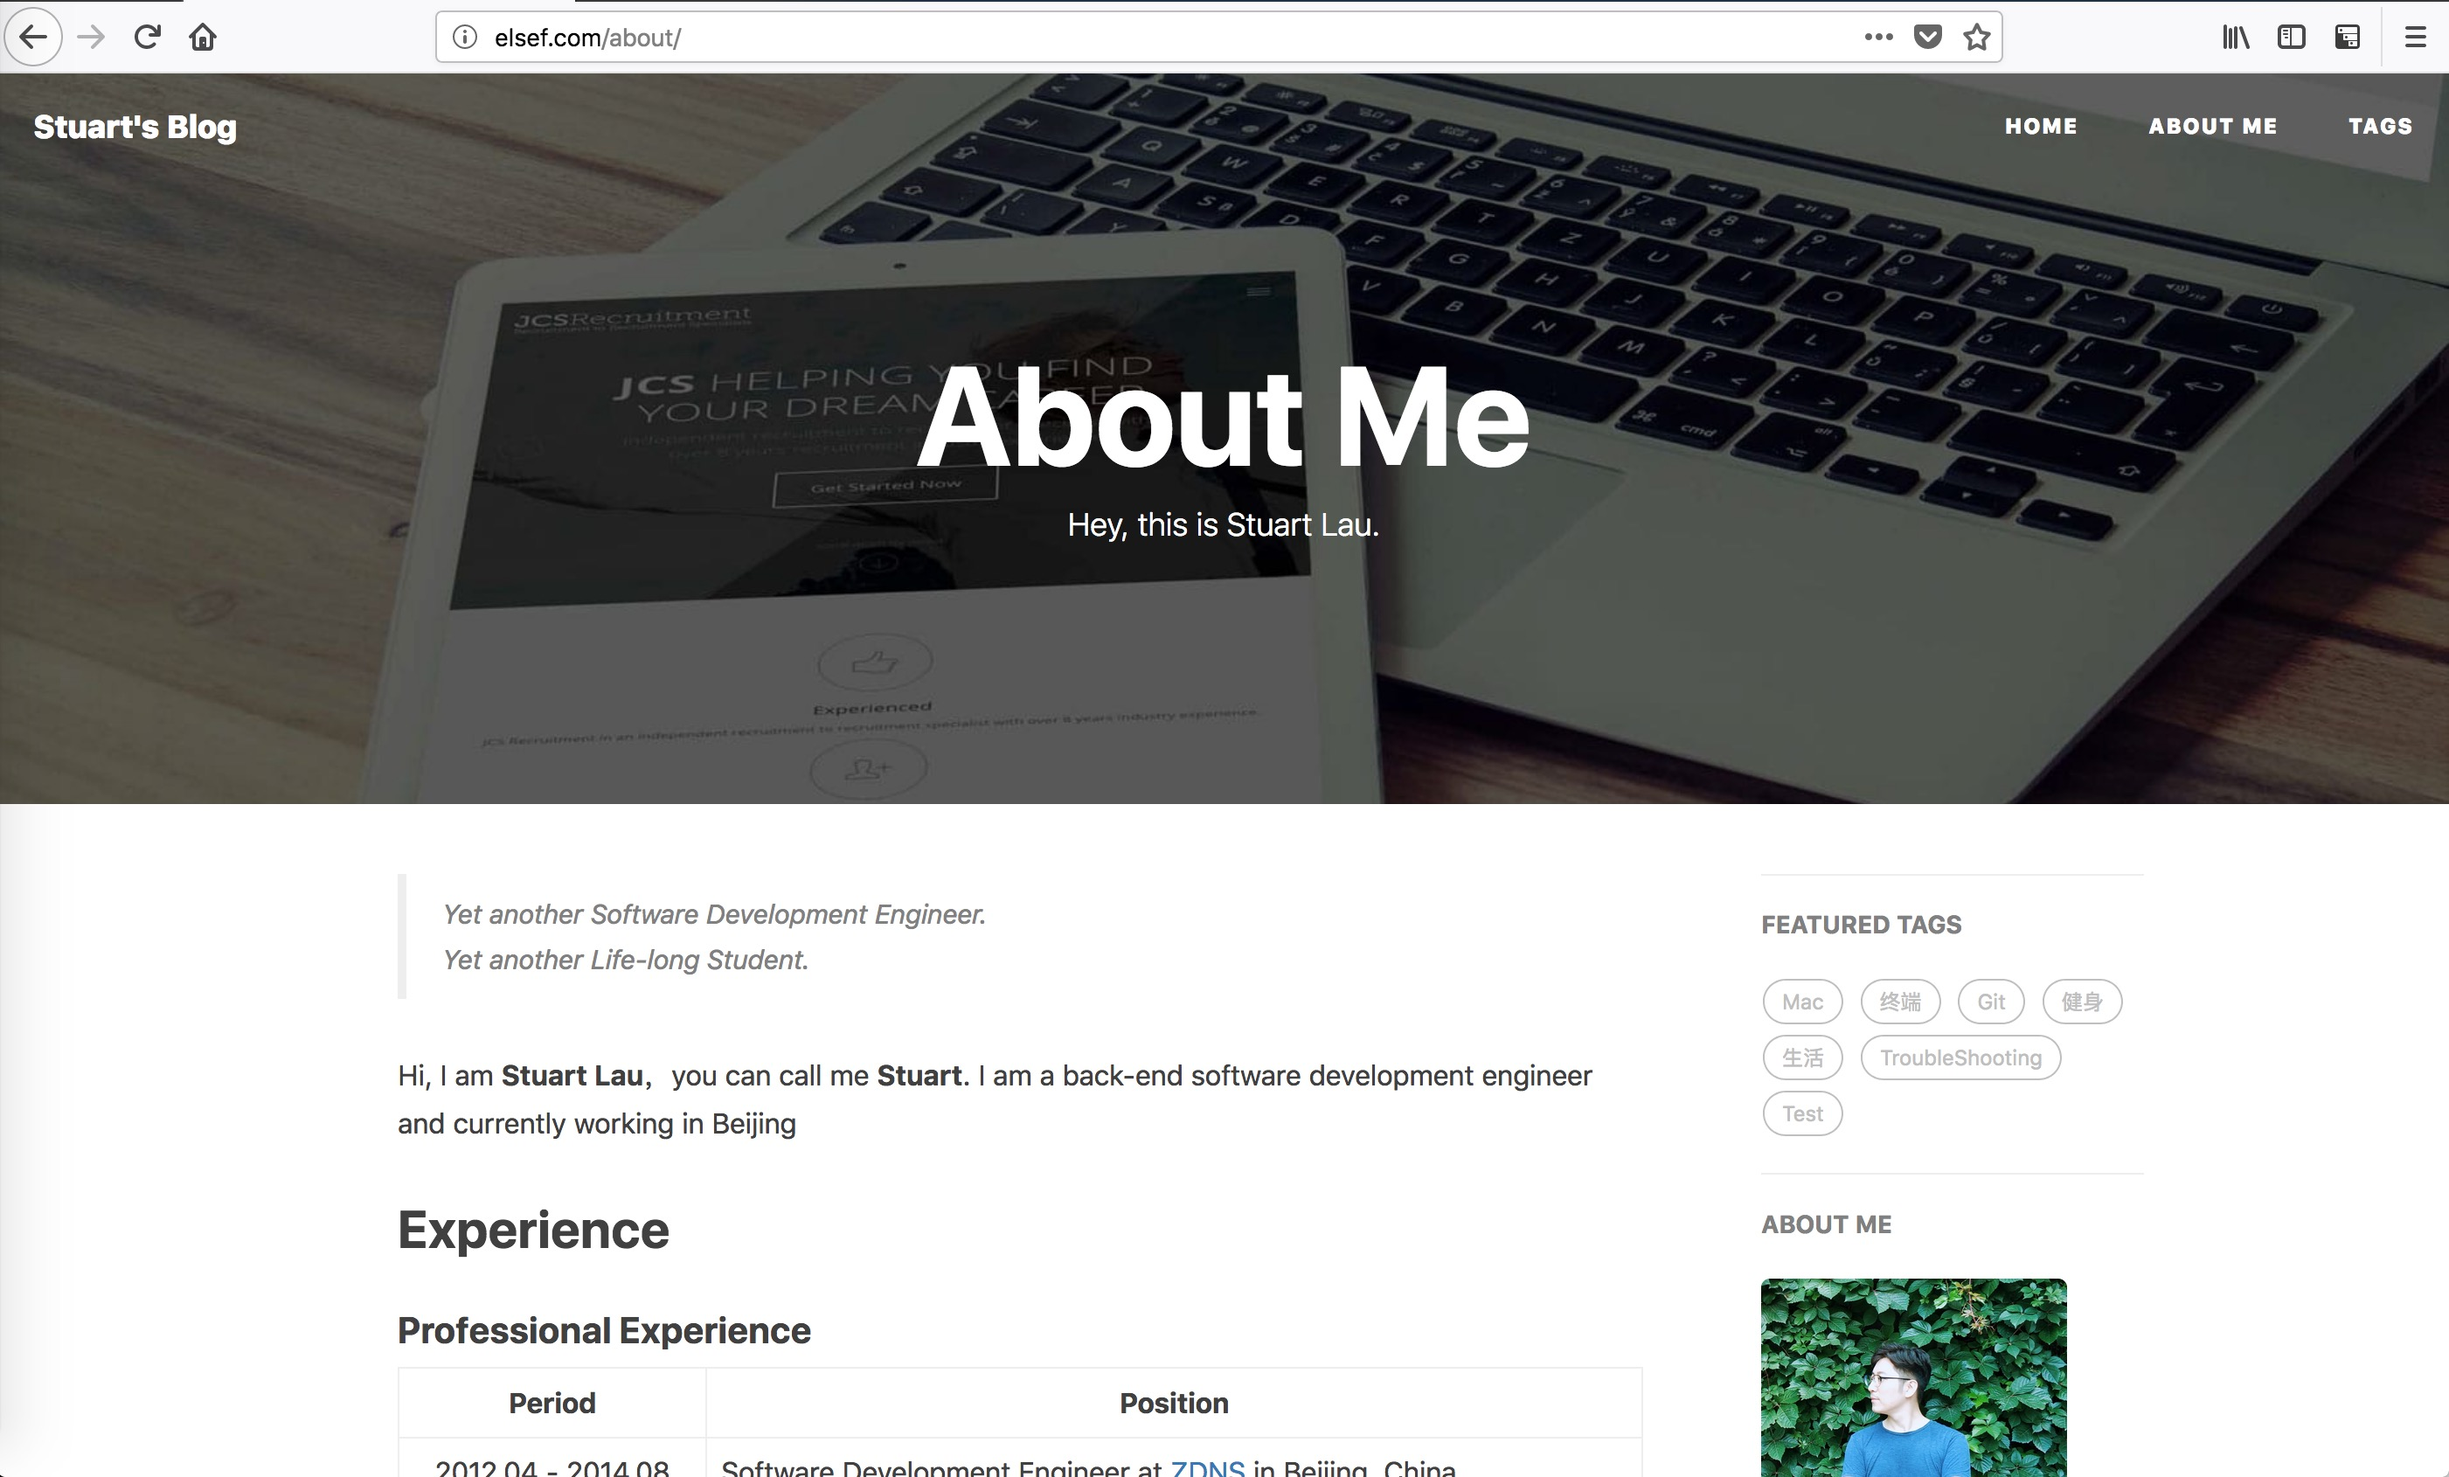
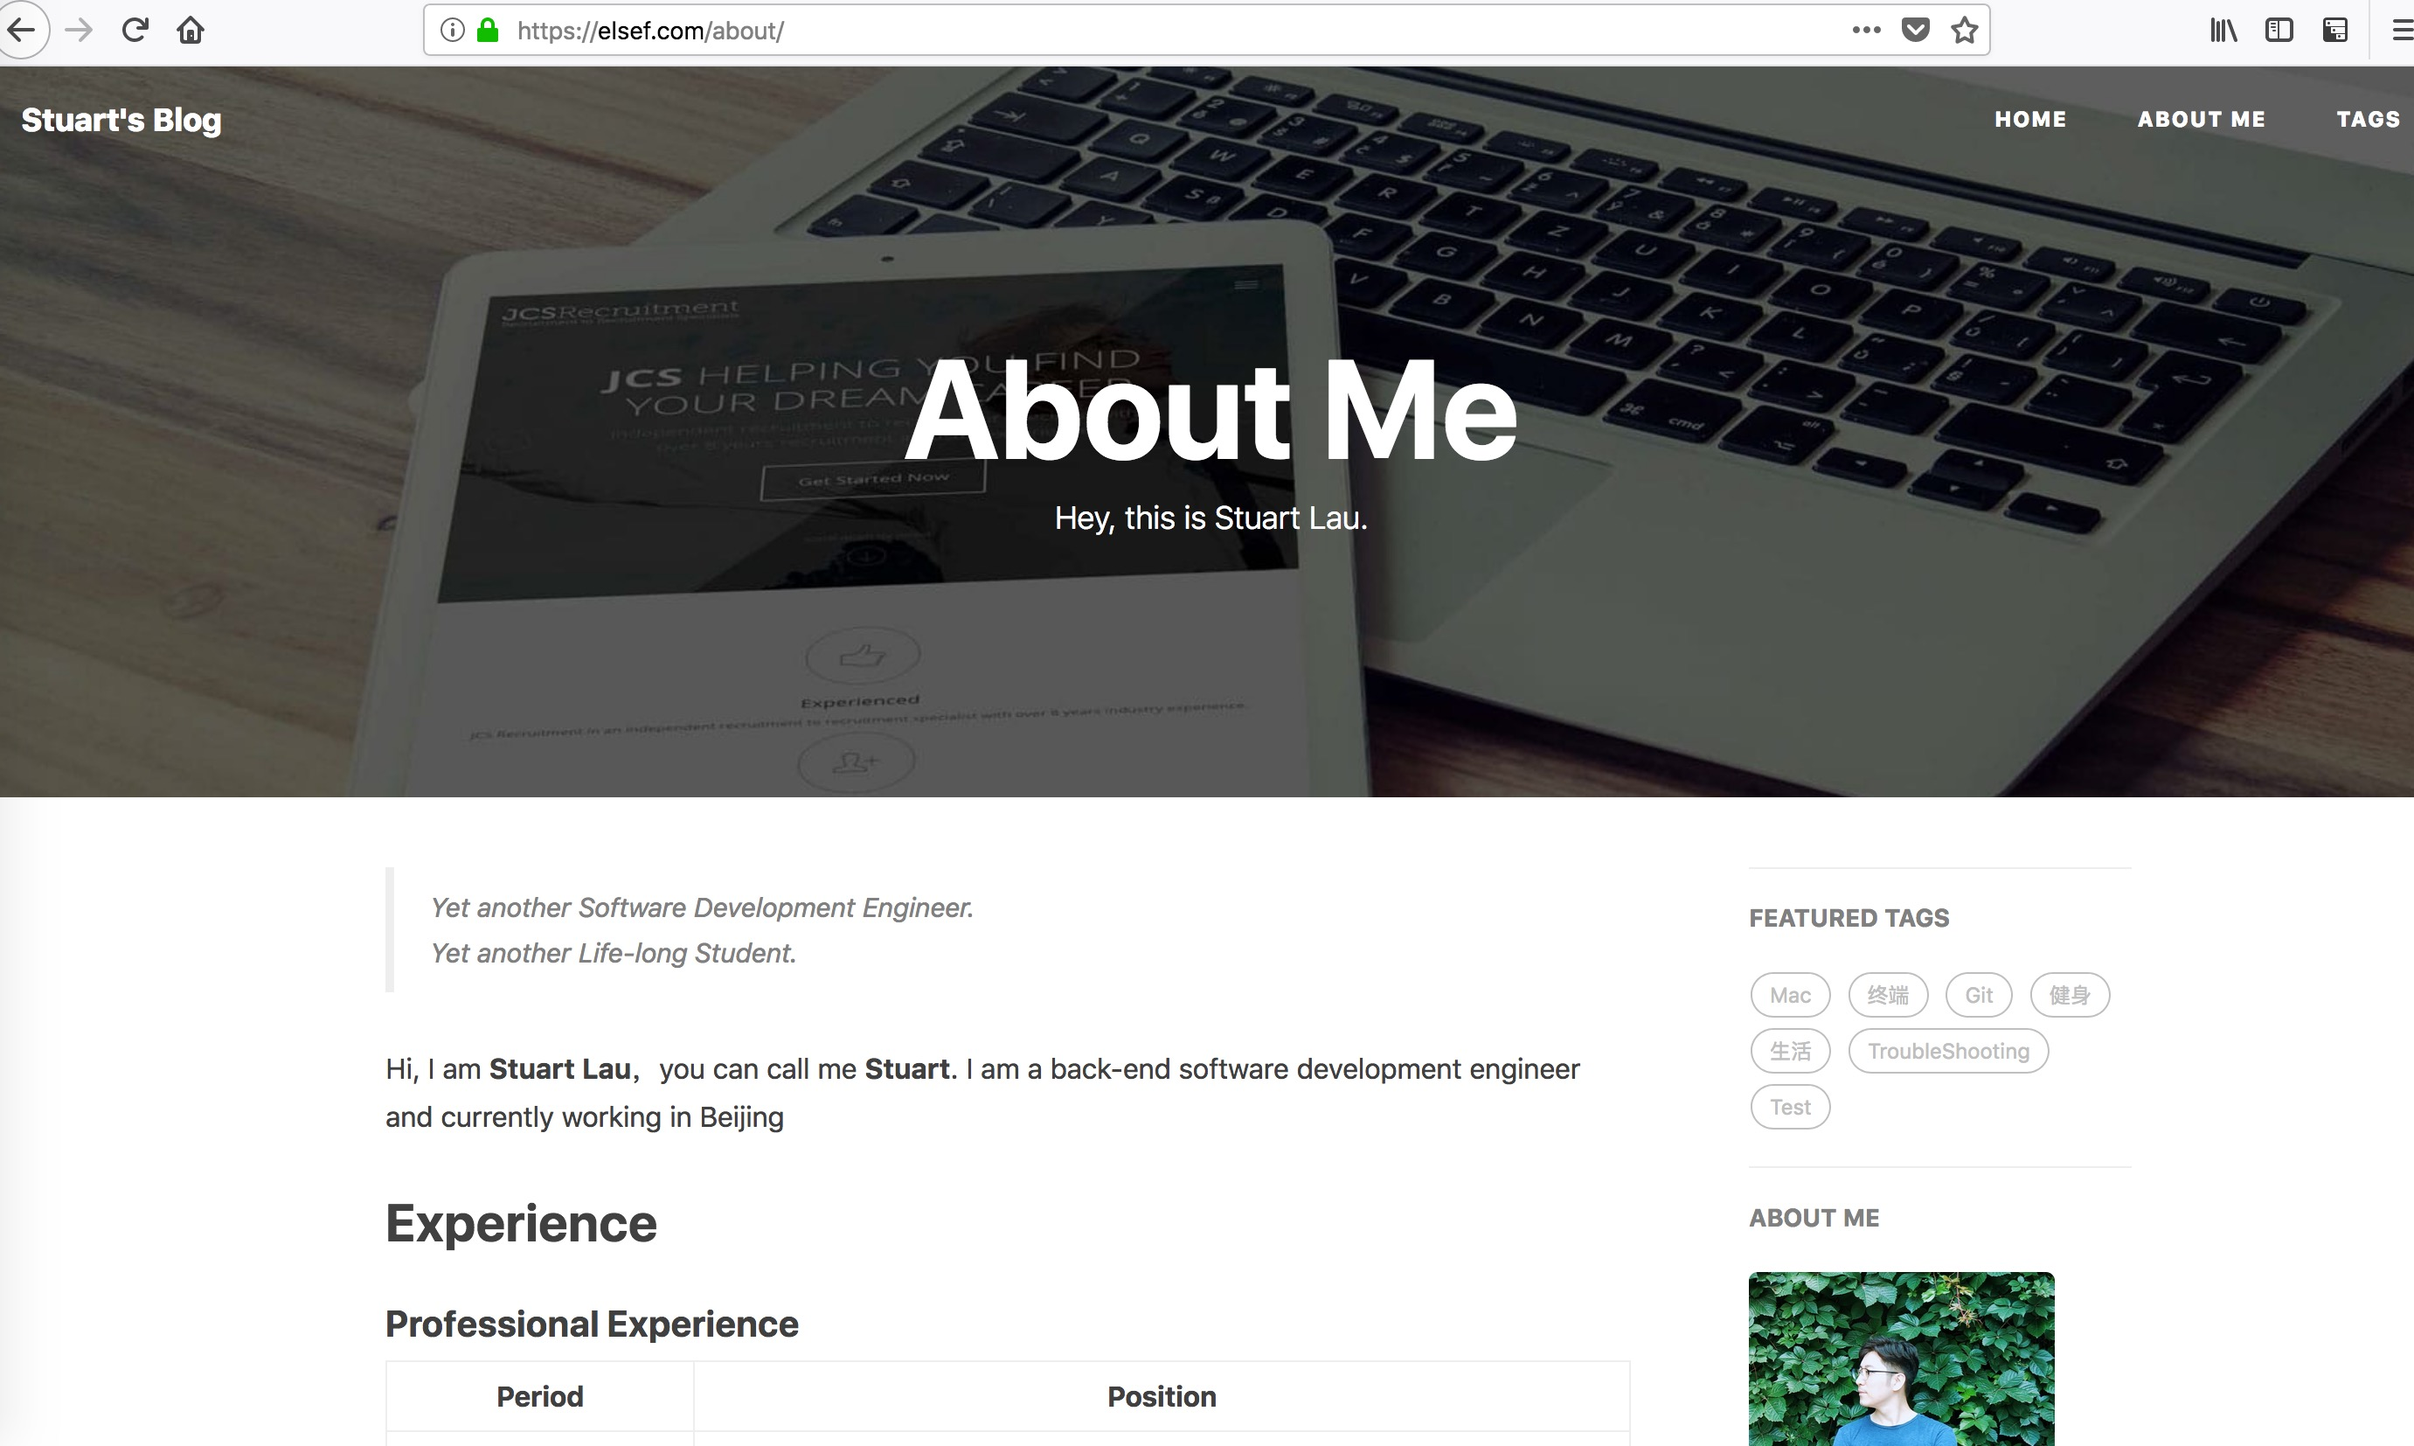
UPDATE MD

diff --git a/_posts/2018-09-18-如何绑定你的独立域名到自己的Github-Pages.md b/_posts/2018-09-18-如何绑定你的独立域名到自己的Github-Pages.md
@@ -1,6 +1,6 @@
 ---
 layout:     post
-title:      如何绑定你的独立域名到自己的Github Pages
+title:      如何绑定你的独立域名到自己的GitHub Pages
 subtitle:   以域名服务商Godaddy和域名解析商dnspod为例
 date:       2018-09-18
 author:     SL
@@ -10,7 +10,7 @@ tags:
     - Domain
 ---
 
-之前一直使用Github Pages的域名下的二级域名来管理博客，现在决定用自己的域名来进行管理。
+之前一直使用GitHub Pages的域名下的二级域名来管理博客，现在决定用自己的域名来进行管理。
 由于我的域名托管在GoDaddy，对于国内的用户的DNS解析不是很友好，如可能被墙，所以我采用了国内的dnspod进行域名的解析，对于国内用户来说会友好很多。
 # 步骤
 - 注册dnspod账户获取NS记录的地址
@@ -111,7 +111,7 @@ f1g1ns1.dnspod.net.	101602	IN	A	14.215.150.17
 可以看到NS记录已经生效，即DNS解析工作已经从GD交给了dnspod，下一步是修改A记录让dnspod的域名服务器解析域名到正确的服务器地址。
 
 ## 修改dnspod中域名的A记录地址
-登录到dnspod的管理后台，给对应的域名的A记录增加几条Github Pages的主机地址，注意该地址列表可能会更新，所以最新请戳[here](https://help.github.com/articles/troubleshooting-custom-domains/)
+登录到dnspod的管理后台，给对应的域名的A记录增加几条GitHub Pages的主机地址，注意该地址列表可能会更新，所以最新请戳[here](https://help.github.com/articles/troubleshooting-custom-domains/)
 
 这里我配置了两个做负载均衡，如果配置更多的A记录，需要购买dnspod的增值服务，两个对于我来说已经足够了。
 
@@ -159,19 +159,28 @@ f1g1ns1.dnspod.net.	100297	IN	A	182.140.167.166
 
 
 ```
-可以看到A记录已经生效了，我们访问对应域名elsef.com就可以直接指向Github Pages的服务器地址了
+可以看到A记录已经生效了，我们访问对应域名elsef.com就可以直接指向GitHub Pages的服务器地址了
 
-## 配置Github中仓库的CNAME
-光指向Github的地址还不能够完成访问我们子域名的功能，需要在自己的仓库里配置自定义域名，配置完毕后会在我们的仓库里生成个CNAME文件包含对应的域名。
+## 配置GitHub中仓库的CNAME
+光指向GitHub的地址还不能够完成访问我们子域名的功能，需要在自己的仓库里配置自定义域名，配置完毕后会在我们的仓库里生成个CNAME文件包含对应的域名。
 
 ![]![github-custom-domain](http://stuartlau.github.io/img/in-post/github-custom-domain.jpg)
 
+注意GitHub Pages是提供HTTPS支持的，但是需要在配置CNAME后的24小时之后，因为签名和生效都需要一定的时间。
+
+## 访问自己的域名
 试试是否可以用自己的域名访问博客了？
 ![my_domain](http://stuartlau.github.io/img/in-post/about-me-screenshot.jpg)
 
 成功！
 
+截图中看到我的域名已经支持了HTTPS功能，Issued by Let's Encrypt，这是一个提供免费的SSL/TLS证书的认证机构。
+
+> Let’s Encrypt is a free, automated, and open Certificate Authority.
+
+![lets-encrypt](http://stuartlau.github.io/img/in-post/lets-encrypt.jpg)
 
 # Reference
 - https://support.dnspod.cn/Kb/showarticle/tsid/177/#ChangeDomainNS
 - https://help.github.com/articles/troubleshooting-custom-domains/
+- https://letsencrypt.org/
